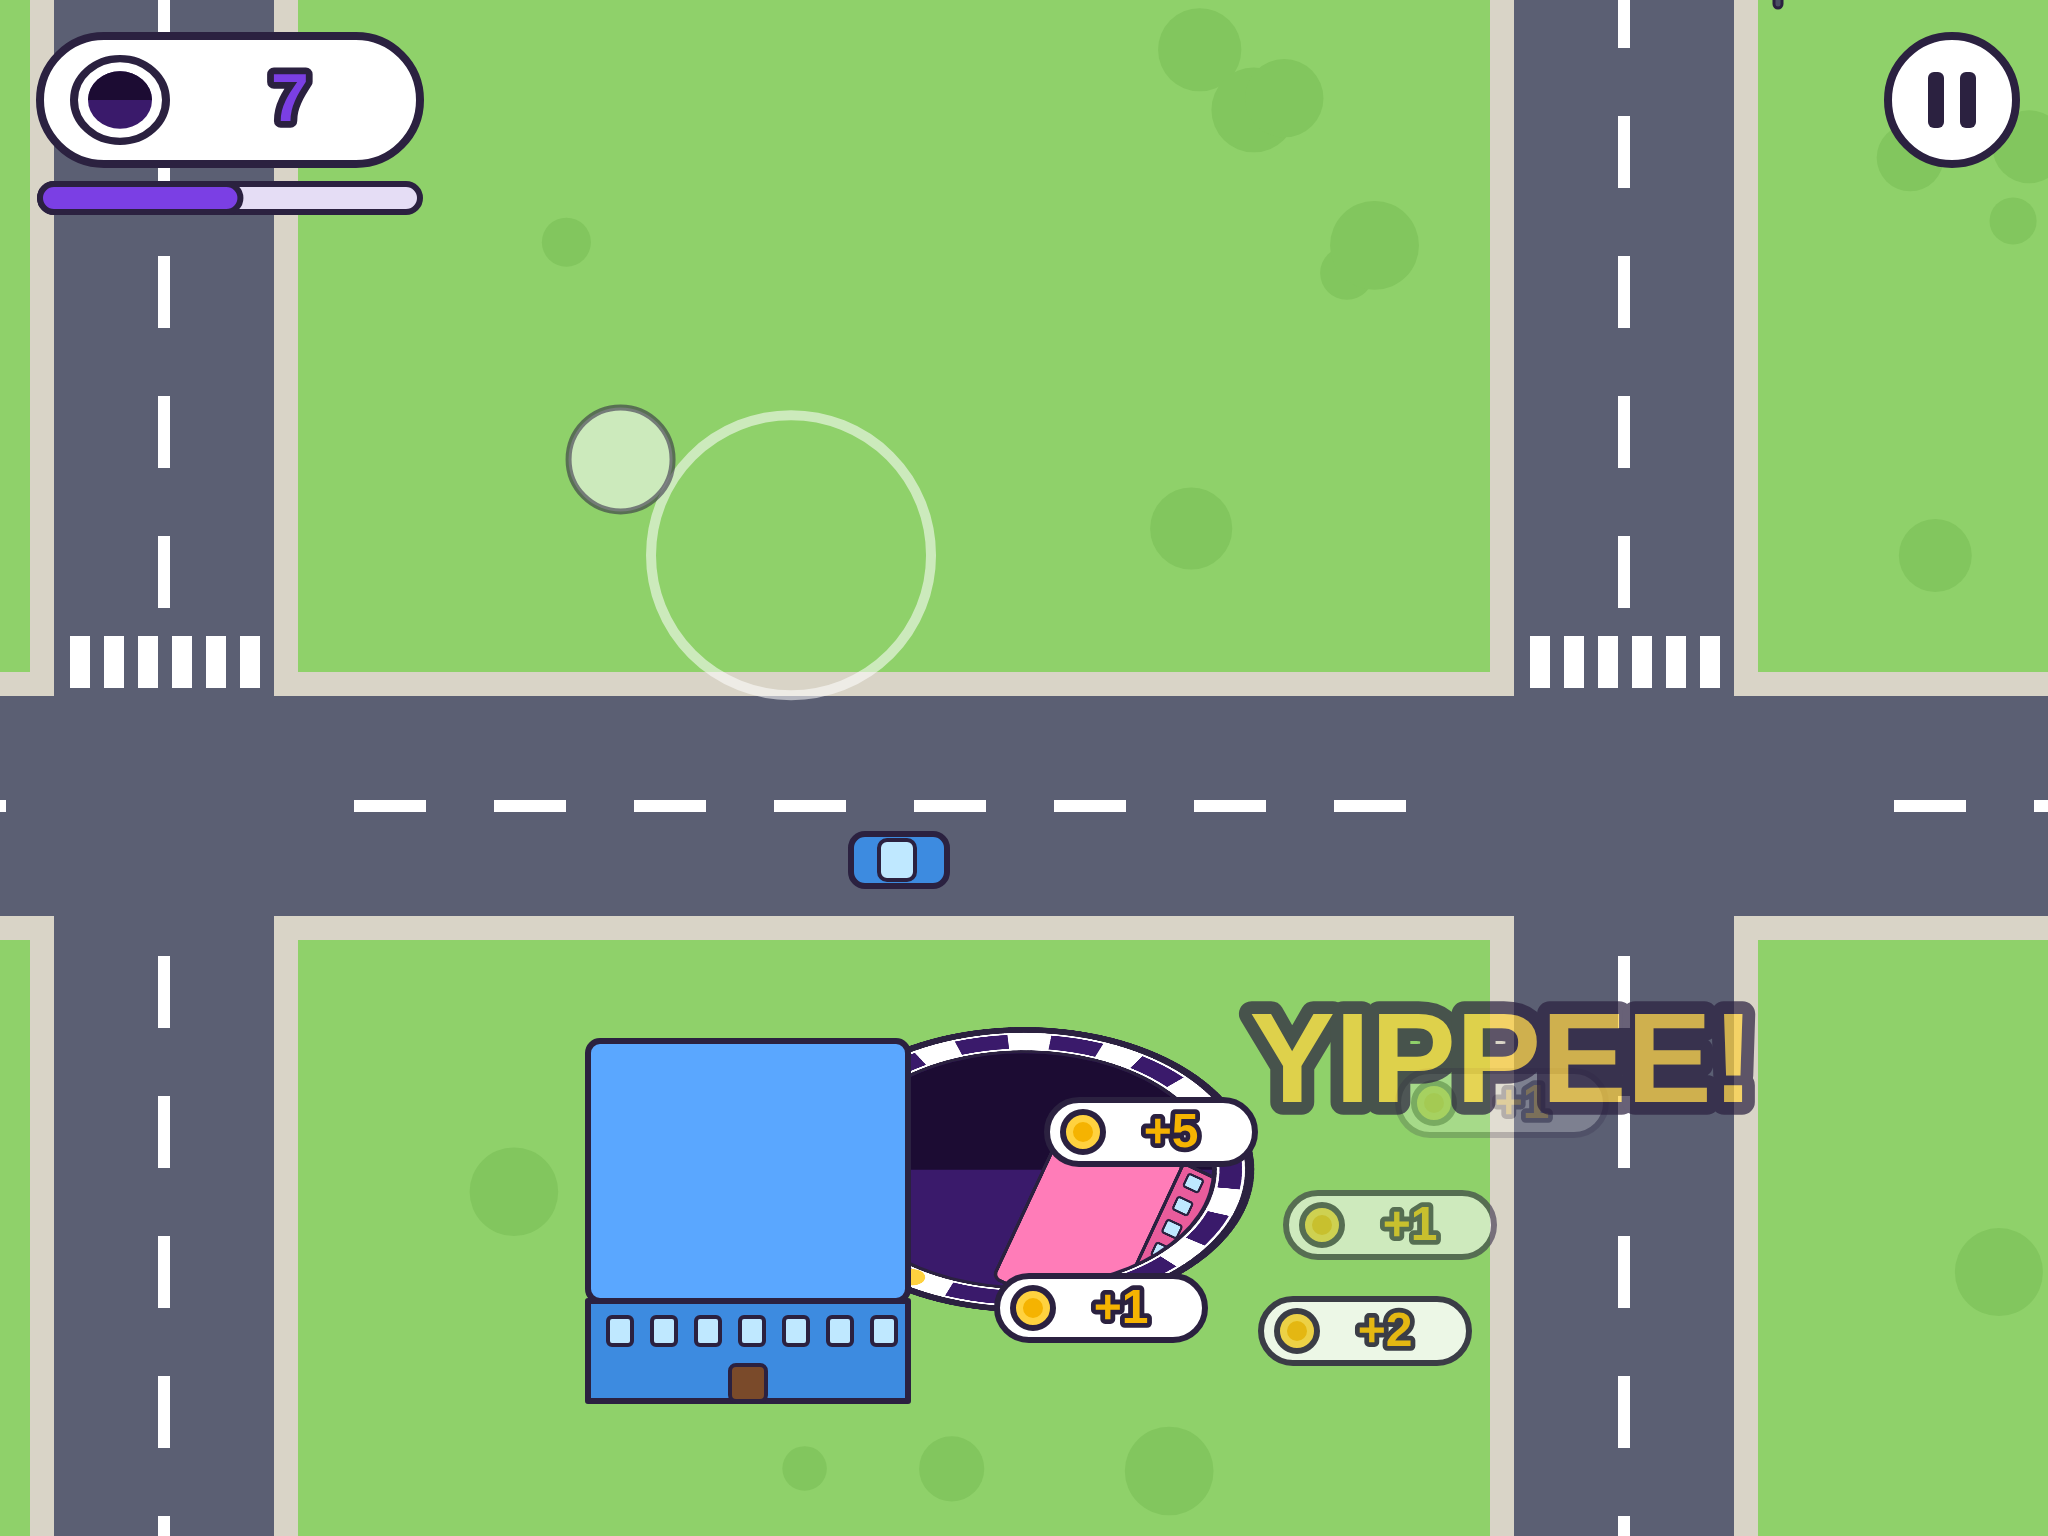
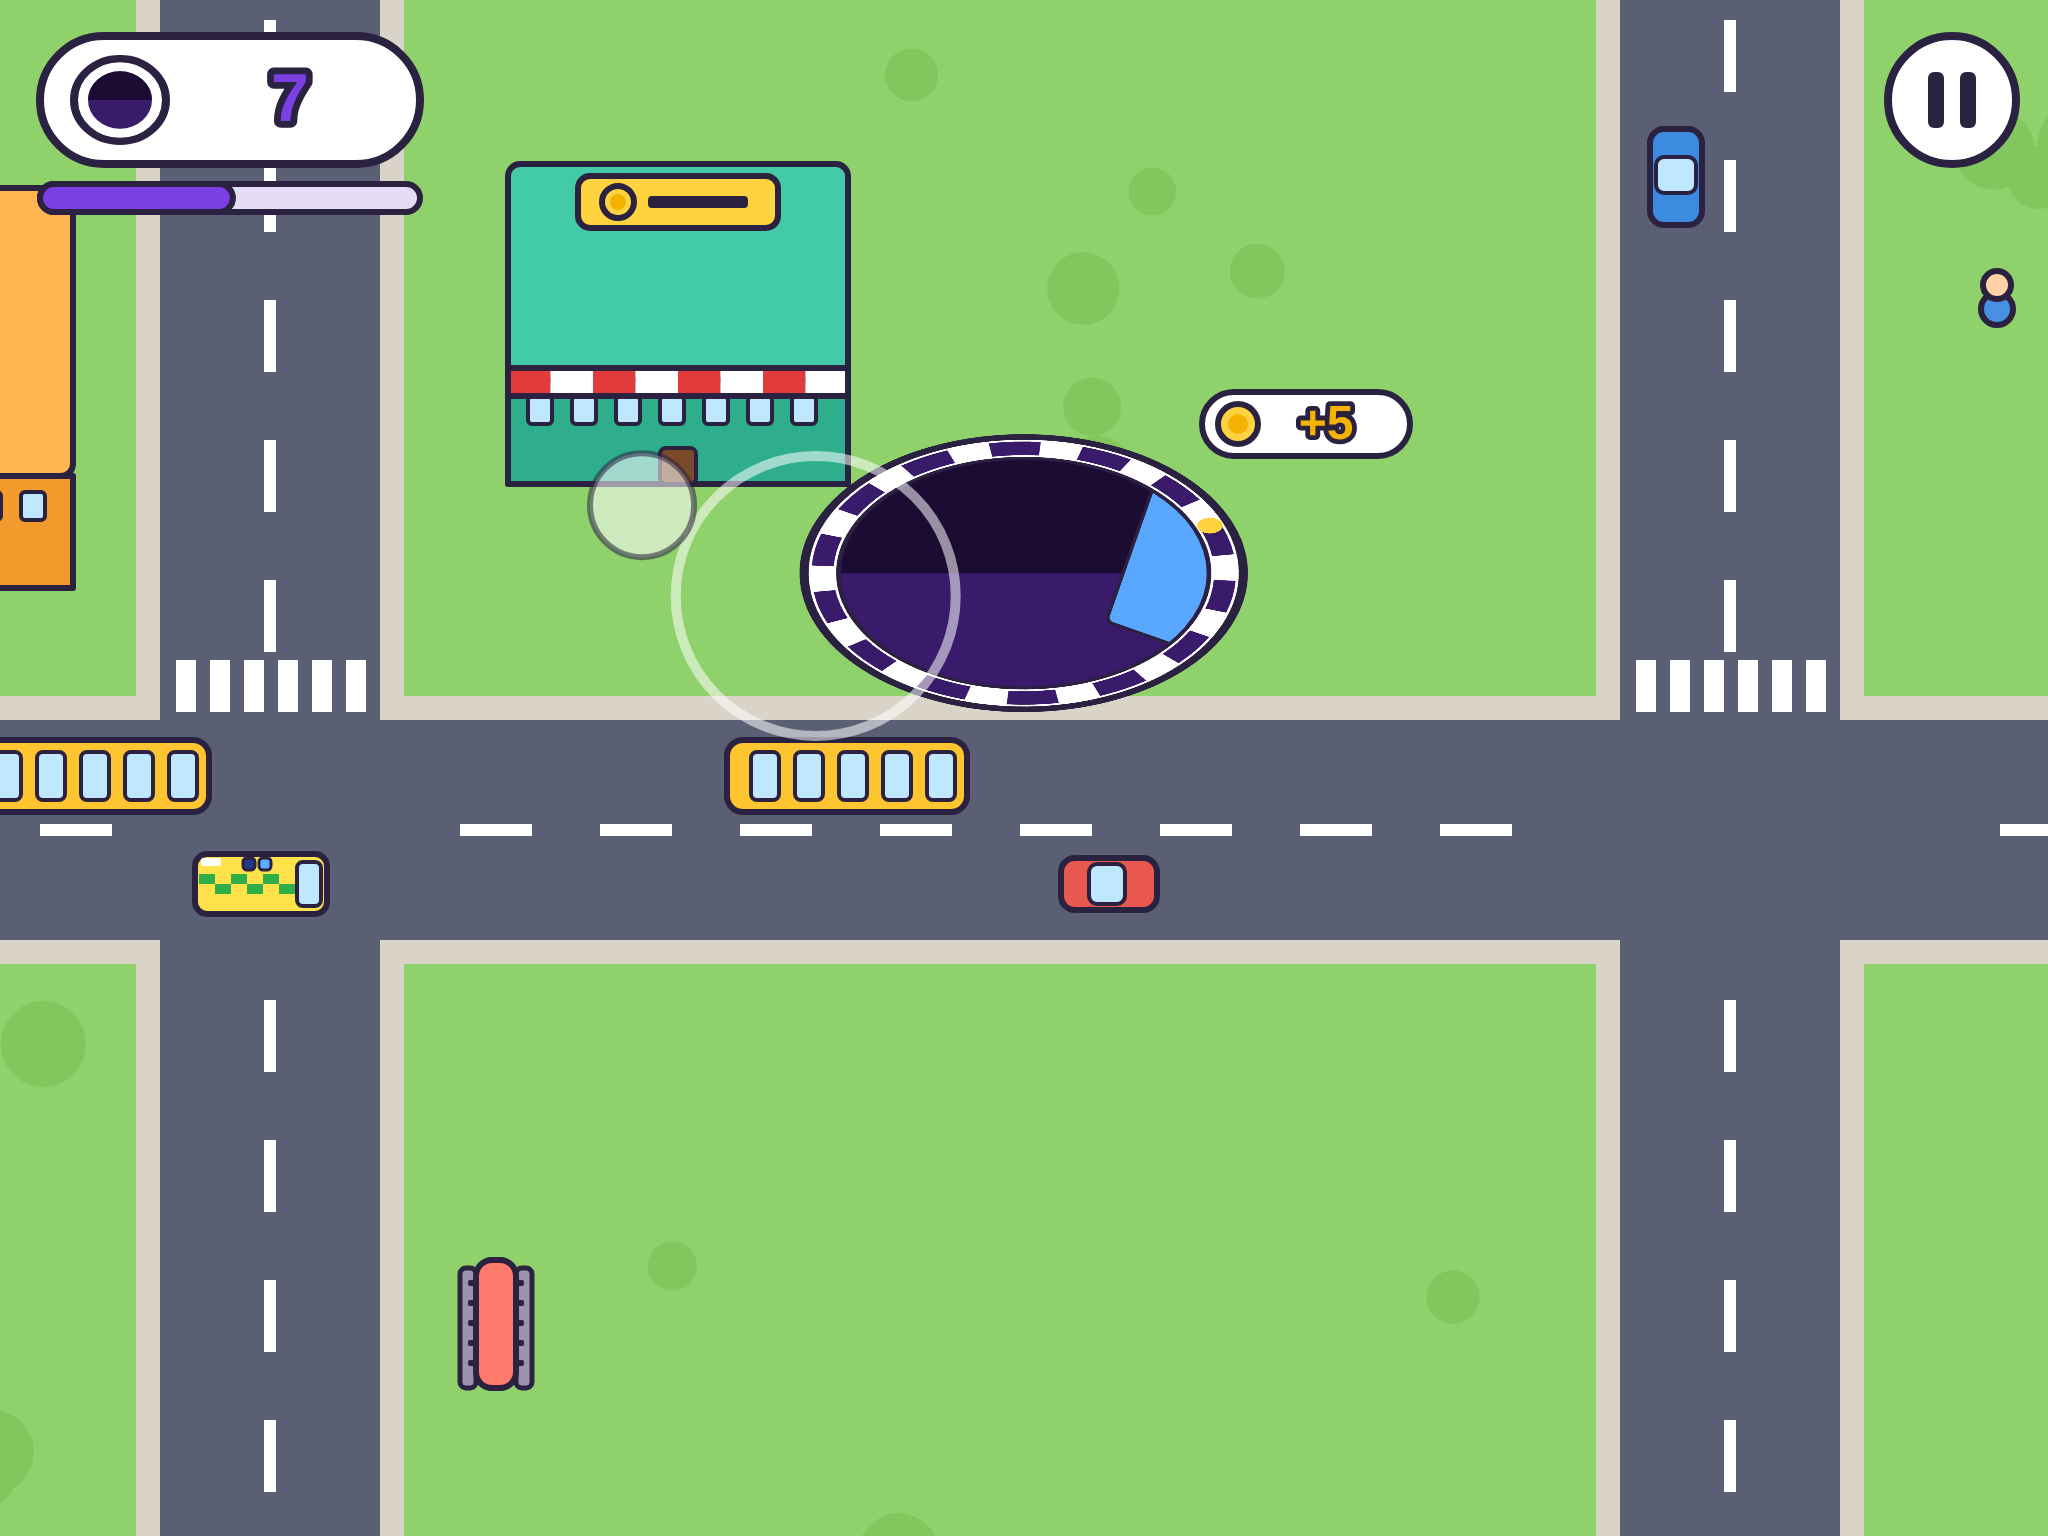
v4: farm vehicles (tractors, combine, quad, muck spreader, farm 4x4) on a slow farm lane, hay bale/fence patch; cache v4

diff --git a/game.js b/game.js
@@ -77,6 +77,16 @@ const ITEMS=[
  [56,30,36,3,6,(x,f)=>{R(x,-26,-13,52,26,'#fff',7,3);batt(x,-24,-5,32,'#1f6fd1','#ffd23f');R(x,8,-10,14,20,'#bfe8ff',4,2);lb(x,-4,-9,f);}], // police car
  [72,36,40,3,6,(x,f)=>{R(x,-34,-15,68,30,'#fff',6,3);batt(x,-32,-5,48,'#1f6fd1','#ffd23f');R(x,20,-11,11,22,'#bfe8ff',3,2);lb(x,0,-10,f);}], // police van
  [60,34,38,3,6,(x,f)=>{R(x,-28,-14,56,28,'#ff8a2a',6,3);R(x,-26,-3,40,6,'#fff',0,0);R(x,10,-11,13,22,'#bfe8ff',3,2);R(x,-31,-8,4,16,O,2,0);lb(x,-6,-10,f);}], // mountain rescue 4x4
+ // farm vehicles (tier 8): trundle slowly along their own lane, facing right
+ [50,34,30,3,8,x=>{C(x,-13,6,11,'#3a3a3a',3);C(x,-13,6,4,'#cfc8dc',2);C(x,14,9,7,'#3a3a3a',3);R(x,-10,-6,30,12,'#e23b3b',4,3);R(x,-18,-16,16,16,'#e23b3b',3,3);R(x,-15,-13,10,8,'#bfe8ff',2,2);R(x,10,-12,3,8,O,1,0);}], // red tractor
+ [92,36,44,3,8,x=>{R(x,-44,-12,46,22,'#c9a24a',4,3);for(let i=0;i<3;i++)R(x,-41+i*14,-9,12,16,'#ffd56a',3,2);C(x,-30,12,5,'#3a3a3a',2);C(x,-14,12,5,'#3a3a3a',2);R(x,2,-1,6,3,O,1,0);C(x,18,6,11,'#3a3a3a',3);C(x,18,6,4,'#cfc8dc',2);C(x,40,9,6,'#3a3a3a',3);R(x,20,-5,24,11,'#2f9e44',4,3);R(x,12,-16,15,15,'#2f9e44',3,3);R(x,15,-13,9,7,'#bfe8ff',2,2);}], // green tractor + hay trailer
+ [134,58,70,5,8,x=>{R(x,52,-20,12,40,'#e0b020',3,3);for(let i=-16;i<18;i+=8)R(x,53,i,10,3,O,1,0);R(x,-50,-14,100,30,'#2f9e44',8,3);R(x,-40,-26,40,14,'#2f9e44',5,3);R(x,10,-28,30,22,'#bfe8ff',5,3);R(x,-62,-6,16,6,'#2f9e44',3,2.5);C(x,-30,18,10,'#3a3a3a',3);C(x,26,18,12,'#3a3a3a',3);C(x,26,18,4,'#cfc8dc',2);}], // combine harvester
+ [30,22,14,1,8,x=>{C(x,-9,6,5,'#3a3a3a',2.5);C(x,9,6,5,'#3a3a3a',2.5);R(x,-11,-4,22,9,'#ff8a2a',4,2.5);R(x,6,-9,3,7,O,1,0);R(x,2,-10,10,3,O,1,0);C(x,-3,-9,3.5,'#4a90e2',2);}], // quad bike
+ [76,36,38,3,8,x=>{R(x,-36,-12,40,18,'#8a5a32',4,3);R(x,-33,-12,34,7,'#5a3a24',2,0);x.lineWidth=3;x.strokeStyle=O;x.strokeRect(-36,-12,40,18);C(x,-28,12,6,'#3a3a3a',2.5);C(x,-10,12,6,'#3a3a3a',2.5);R(x,4,-2,6,3,O,1,0);C(x,22,6,10,'#3a3a3a',3);R(x,20,-4,16,10,'#1f6fd1',3,3);R(x,14,-15,13,13,'#1f6fd1',3,3);R(x,16,-12,8,7,'#bfe8ff',2,2);}], // muck spreader (blue tractor pulling it)
+ [60,34,34,3,8,x=>{R(x,-28,-8,56,20,'#6b8f3a',6,3);R(x,-26,-6,26,10,'#c9a24a',2,2);R(x,4,-18,20,14,'#6b8f3a',4,3);R(x,8,-15,13,9,'#bfe8ff',2,2);C(x,-16,13,7,'#3a3a3a',3);C(x,16,13,7,'#3a3a3a',3);R(x,26,-2,4,8,'#cfc8dc',1,1.5);}], // farm 4x4 pick-up
+ // farm-edge patch (tier 9): static hay bales and a wooden fence
+ [26,22,12,1,9,x=>{R(x,-11,-9,22,18,'#e8c050',8,3);x.lineWidth=2;x.strokeStyle='#b8902a';x.beginPath();x.arc(-3,0,5,0,TAU);x.stroke();}], // round hay bale
+ [70,26,20,2,9,x=>{for(let i=-30;i<=30;i+=15)R(x,i-3,-11,6,22,'#b07a4a',2,2);R(x,-34,-7,68,4,'#c98d58',1,2);R(x,-34,2,68,4,'#c98d58',1,2);}], // fence
  // animals (tier 4): wander slowly, cheer when swallowed
  [26,22,10,1,4,x=>{R(x,-9,-2,18,11,'#f39a2d',6,2.5);x.beginPath();x.moveTo(8,4);x.quadraticCurveTo(15,2,13,-6);x.lineWidth=4;x.strokeStyle=O;x.stroke();x.lineWidth=2;x.strokeStyle='#f39a2d';x.stroke();x.beginPath();x.moveTo(-14,-6);x.lineTo(-12,-14);x.lineTo(-8,-8);x.moveTo(-4,-8);x.lineTo(-2,-14);x.lineTo(0,-6);x.fillStyle='#f39a2d';x.fill();x.lineWidth=2;x.strokeStyle=O;x.stroke();C(x,-7,-5,6.5,'#f39a2d',2.5);C(x,-9,-6,1.1,O,0);C(x,-5,-6,1.1,O,0);}], // cat
  [30,24,13,2,4,x=>{R(x,-11,-3,22,12,'#c98d58',6,2.5);R(x,9,-4,6,3,'#c98d58',1.5,2);C(x,-9,-6,7.5,'#c98d58',2.5);R(x,-17,-9,5,10,'#8a5a32',2.5,2);R(x,-6,-9,5,10,'#8a5a32',2.5,2);C(x,-11,-6,1.2,O,0);C(x,-7,-6,1.2,O,0);C(x,-9,-2,1.8,O,0);}], // dog
@@ -140,7 +150,7 @@ function gridBuild(){gCount.fill(0);for(let i=0;i<NE;i++){const e=E[i];if(!e.ali
 const YP=[],CP=[];for(let i=0;i<3;i++)YP.push({on:0,t:0,x:0,y:0,s:0});for(let i=0;i<5;i++)CP.push({on:0,t:0,x:0,y:0,s:0});
 function spawn(pool,x,y,s){let best=pool[0];for(let i=0;i<pool.length;i++){if(!pool[i].on){best=pool[i];break;}if(pool[i].t>best.t)best=pool[i];}best.on=1;best.t=0;best.x=x;best.y=y;best.s=s;}
 // ---------- level ----------
-const LV=[{tg:58,n:[24,8,6,12,6,0,3],mc:4,par:60,it:[14,2,0,1,6]},{tg:80,n:[26,8,8,14,10,1,6],mc:7,par:80,it:[16,3,0,2,7]},{tg:100,n:[28,8,8,16,12,1,8],mc:8,par:100,it:[18,4,1,2,8]},{tg:122,n:[30,8,8,16,14,2,10],mc:8,par:120,it:[18,5,1,3,9]},{tg:150,n:[32,8,8,16,14,2,12],mc:9,par:140,it:[20,5,2,3,10]}];
+const LV=[{tg:58,n:[24,8,6,12,6,0,3],mc:4,par:60,it:[14,2,0,1,6]},{tg:80,n:[26,8,8,14,10,1,6],mc:7,par:80,it:[16,3,0,2,7]},{tg:100,n:[28,8,8,16,12,1,8],mc:8,par:100,it:[18,4,1,2,8]},{tg:122,n:[28,8,8,16,14,2,10],mc:8,par:120,it:[18,5,1,3,9]},{tg:150,n:[28,8,8,16,14,2,12],mc:9,par:140,it:[20,5,2,3,10]}];
 const HR=[[360,470],[860,970]],VR=[[560,670],[1290,1400]];
 const BLOCKS=[];{const xs=[[0,548],[682,1278],[1412,2048]],ys=[[0,348],[482,848],[982,1280]];for(const a of xs)for(const b of ys)BLOCKS.push([a[0]+16,b[0]+16,a[1]-16,b[1]-16]);}
 const DECO=new Float32Array(120);let ND=0;
@@ -159,6 +169,7 @@ function buildLevel(n){const cfg=LV[n],r=rng(1234+n*777),boxes=[[1340,210,1540,3
  for(const d of hs2){const h=HOUSES[d],p=place(h[0],h[1]);if(p){const e=add(6,p[0],p[1],d,0);e.s=Math.round(.48*Math.max(h[0],h[1]));e.hb=h[1]/2;}}
  const tier=t=>{const a=[];ITEMS.forEach((it,i)=>{if(it[4]==t)a.push(i);});return a;};
  for(let tt=2;tt>=0;tt--){const pool=tier(tt);for(let i=0;i<cfg.it[tt];i++){const id=pool[(i*7+n*3)%pool.length],it=ITEMS[id],p=place(it[0],it[1]);if(p){const e=add(7,p[0],p[1],id,0);e.s=it[2];e.c=it[3];e.hb=it[1]/2;}}}
+ {const fp=tier(9);for(let i=0;i<4;i++){const id=fp[i%2],it=ITEMS[id],p=place(it[0],it[1]);if(p){const e=add(7,p[0],p[1],id,0);e.s=it[2];e.c=it[3];e.hb=it[1]/2;}}}
  const sz=[0,[16,20],[34,12],[36,40]];
  for(let t=3;t>=1;t--)for(let i=0;i<cfg.n[t];i++){const p=place(sz[t][0],sz[t][1]);if(p)add(t,p[0],p[1],0,0);}
  {const pool=tier(4);for(let i=0;i<cfg.it[4];i++){const id=pool[(i+n)%pool.length],it=ITEMS[id],span=80+r()*60,q=place(span+it[0],it[1]+6);if(!q)continue;const e=add(7,0,q[1],id,2);e.s=it[2];e.c=it[3];e.hb=it[1]/2;e.ph=0;e.a=q[0]-span/2;e.b=q[0]+span/2;e.v=(10+r()*8)/(e.b-e.a);e.fx=r();}}
@@ -169,8 +180,8 @@ function buildLevel(n){const cfg=LV[n],r=rng(1234+n*777),boxes=[[1340,210,1540,3
  // moving vehicles on 4 horizontal lanes, evenly spaced so they never touch
  const lanes=[[HR[0][0]+28,-1],[HR[0][0]+82,1],[HR[1][0]+28,-1],[HR[1][0]+82,1]];const veh=[];
  for(let i=0;i<cfg.n[5];i++)veh.push(5);for(let i=0;i<cfg.mc;i++)veh.push(4);{const mv=tier(3);for(let i=0;i<cfg.it[3];i++)veh.splice(i*3+1,0,100+mv[i%mv.length]);const em=tier(6);for(let i=0;i<[1,1,2,2,3][n];i++)veh.splice(i*4+2,0,100+em[(i+n)%em.length]);}
- veh.forEach((t,i)=>{});const per=[[],[],[],[]];veh.forEach((t,i)=>per[i%4].push(t));
- per.forEach((list,li)=>{const Ln=WW+300,sp=(70+li*9)*lanes[li][1];list.forEach((t,j)=>{const e=t>=100?add(7,0,lanes[li][0],t-100,1):add(t,0,lanes[li][0],t==4?(j+li)%5:0,1);if(t>=100){const it=ITEMS[t-100];e.s=it[2];e.c=it[3];}e.a=Ln*j/list.length+r()*40;e.v=sp;});});
+ const per=[[],[],[],[]];{const fm=tier(8),nf=[2,2,3,3,4][n];veh.forEach((t,i)=>per[nf?i%3:i%4].push(t));for(let i=0;i<nf;i++)per[3].push(100+fm[(i+n*2)%fm.length]);}
+ per.forEach((list,li)=>{const Ln=WW+300,sp=(li==3?40:70+li*9)*lanes[li][1];list.forEach((t,j)=>{const e=t>=100?add(7,0,lanes[li][0],t-100,1):add(t,0,lanes[li][0],t==4?(j+li)%5:0,1);if(t>=100){const it=ITEMS[t-100];e.s=it[2];e.c=it[3];}e.a=Ln*j/list.length+r()*40;e.v=sp;});});
  // parked cars on the vertical roads
  for(let i=0;i<cfg.n[4]-cfg.mc;i++){const R2=VR[i%2],x=R2[0]+(i%4<2?28:82);let y;for(let q=0;q<30;q++){y=60+r()*1160;if(!(y>HR[0][0]-40&&y<HR[0][1]+40)&&!(y>HR[1][0]-40&&y<HR[1][1]+40)&&free(x-15,y-26,x+15,y+26))break;}boxes.push([x-15,y-26,x+15,y+26]);add(4,x,y,i%5,0);}
  ND=0;for(let i=0;i<40;i++){const p=place(30,30);if(p){DECO[ND*3]=p[0];DECO[ND*3+1]=p[1];DECO[ND*3+2]=10+r()*14;ND++;boxes.pop();}}

diff --git a/tools/farm-shot.js b/tools/farm-shot.js
@@ -1,0 +1,9 @@
+const p=require('/tmp/pt/node_modules/puppeteer-core');const sleep=ms=>new Promise(r=>setTimeout(r,ms));const OUT=__dirname+'/../proof/';
+(async()=>{const b=await p.launch({executablePath:'/usr/bin/google-chrome',headless:'new',args:['--no-sandbox']});const pg=await b.newPage();pg.on('pageerror',e=>console.log('ERR',e.message));
+await pg.setViewport({width:1366,height:1024,deviceScaleFactor:2});await pg.goto(process.env.URL);
+await pg.evaluate(()=>{localStorage.clear();localStorage.setItem('mollyHoleFresh1',JSON.stringify({coins:0,stars:[3,3,3,3,0],skin:3,owned:[1,0,0,1,0,0,0,0],gift:0}));});await pg.reload();await sleep(400);
+const u=Math.min(1366/1024,1024/768);await pg.mouse.click(683+(520-512)*u,512+(330-384)*u);await sleep(300);
+for(const [i,name] of [[0,'v4-farm-a'],[1,'v4-farm-b']]){
+ const info=await pg.evaluate(k=>{const m=__mh,f=[];for(let j=0;j<m.NE;j++){const e=m.E[j];if(e.t===7&&e.mv===1&&Math.abs(e.y-942)<2)f.push(e);}f.sort((a,b)=>a.x-b.x);const e=f[Math.min(k*2,f.length-1)];m.hole.x=Math.max(400,Math.min(1650,e.x+120));m.hole.y=800;return f.length;},i);
+ console.log('farm vehicles on lane',info);await sleep(200);await pg.screenshot({path:OUT+name+'.png'});}
+await b.close();})();

diff --git a/sw.js b/sw.js
@@ -1,4 +1,4 @@
-const CACHE='molly-hole-fresh-v3';
+const CACHE='molly-hole-fresh-v4';
 const FILES=['./','index.html','game.js','manifest.webmanifest','icons/icon-180.png','icons/icon-192.png','icons/icon-512.png'];
 self.addEventListener('install',e=>{e.waitUntil(caches.open(CACHE).then(c=>c.addAll(FILES)).then(()=>self.skipWaiting()))});
 self.addEventListener('activate',e=>{e.waitUntil(caches.keys().then(ks=>Promise.all(ks.filter(k=>k!==CACHE).map(k=>caches.delete(k)))).then(()=>self.clients.claim()))});
